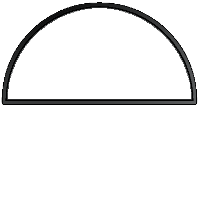
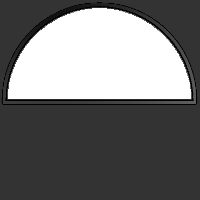
pantilt workaround to allow rotate

diff --git a/style/main.css b/style/main.css
@@ -130,26 +130,23 @@ body {
     float: left;
     background-image: url("../images/pan.png");
     background-repeat: no-repeat;
-   /* z-index: 100;*/
+    z-index: 100;
     position: absolute;
 }
 
 .pan {
     background-image: url("../images/pan_fondo.png");
     background-repeat: no-repeat;
-    background-position: -3px -3px;
-    width: 194px;
-    height: 102px;
-    border-radius: 100px 100px 0 0;
-    margin: 3px 0 0 3px;
-    /*z-index: 1;*/
+    width: 200px;
+    height: 200px;
+    z-index: 1;
     /*position: absolute;*/
 }
 
 .tilt_space {
     width: 200px;
     height: 200px;
-    margin-left: 215px;
+    margin-left: 240px;
 }
 
 .tilt_marco {
@@ -157,20 +154,16 @@ body {
     height: 200px;
     background-image: url("../images/tilt.png");
     background-repeat: no-repeat;
-    margin-top: -3px;
-    /*z-index: 100;*/
+    z-index: 100;
     position: absolute;
 }
 
 .tilt {
     background-image: url("../images/tilt_fondo.png");
     background-repeat: no-repeat;
-    background-position: -97px -3px;
-    width: 102px;
-    height: 194px;
-    border-radius: 0 100px 100px 0;
-    margin: 3px 0 0 95px;
-    /*z-index: 1;*/
+    width: 200px;
+    height: 200px;
+    z-index: 1;
     /*position: absolute;*/
 }
 
